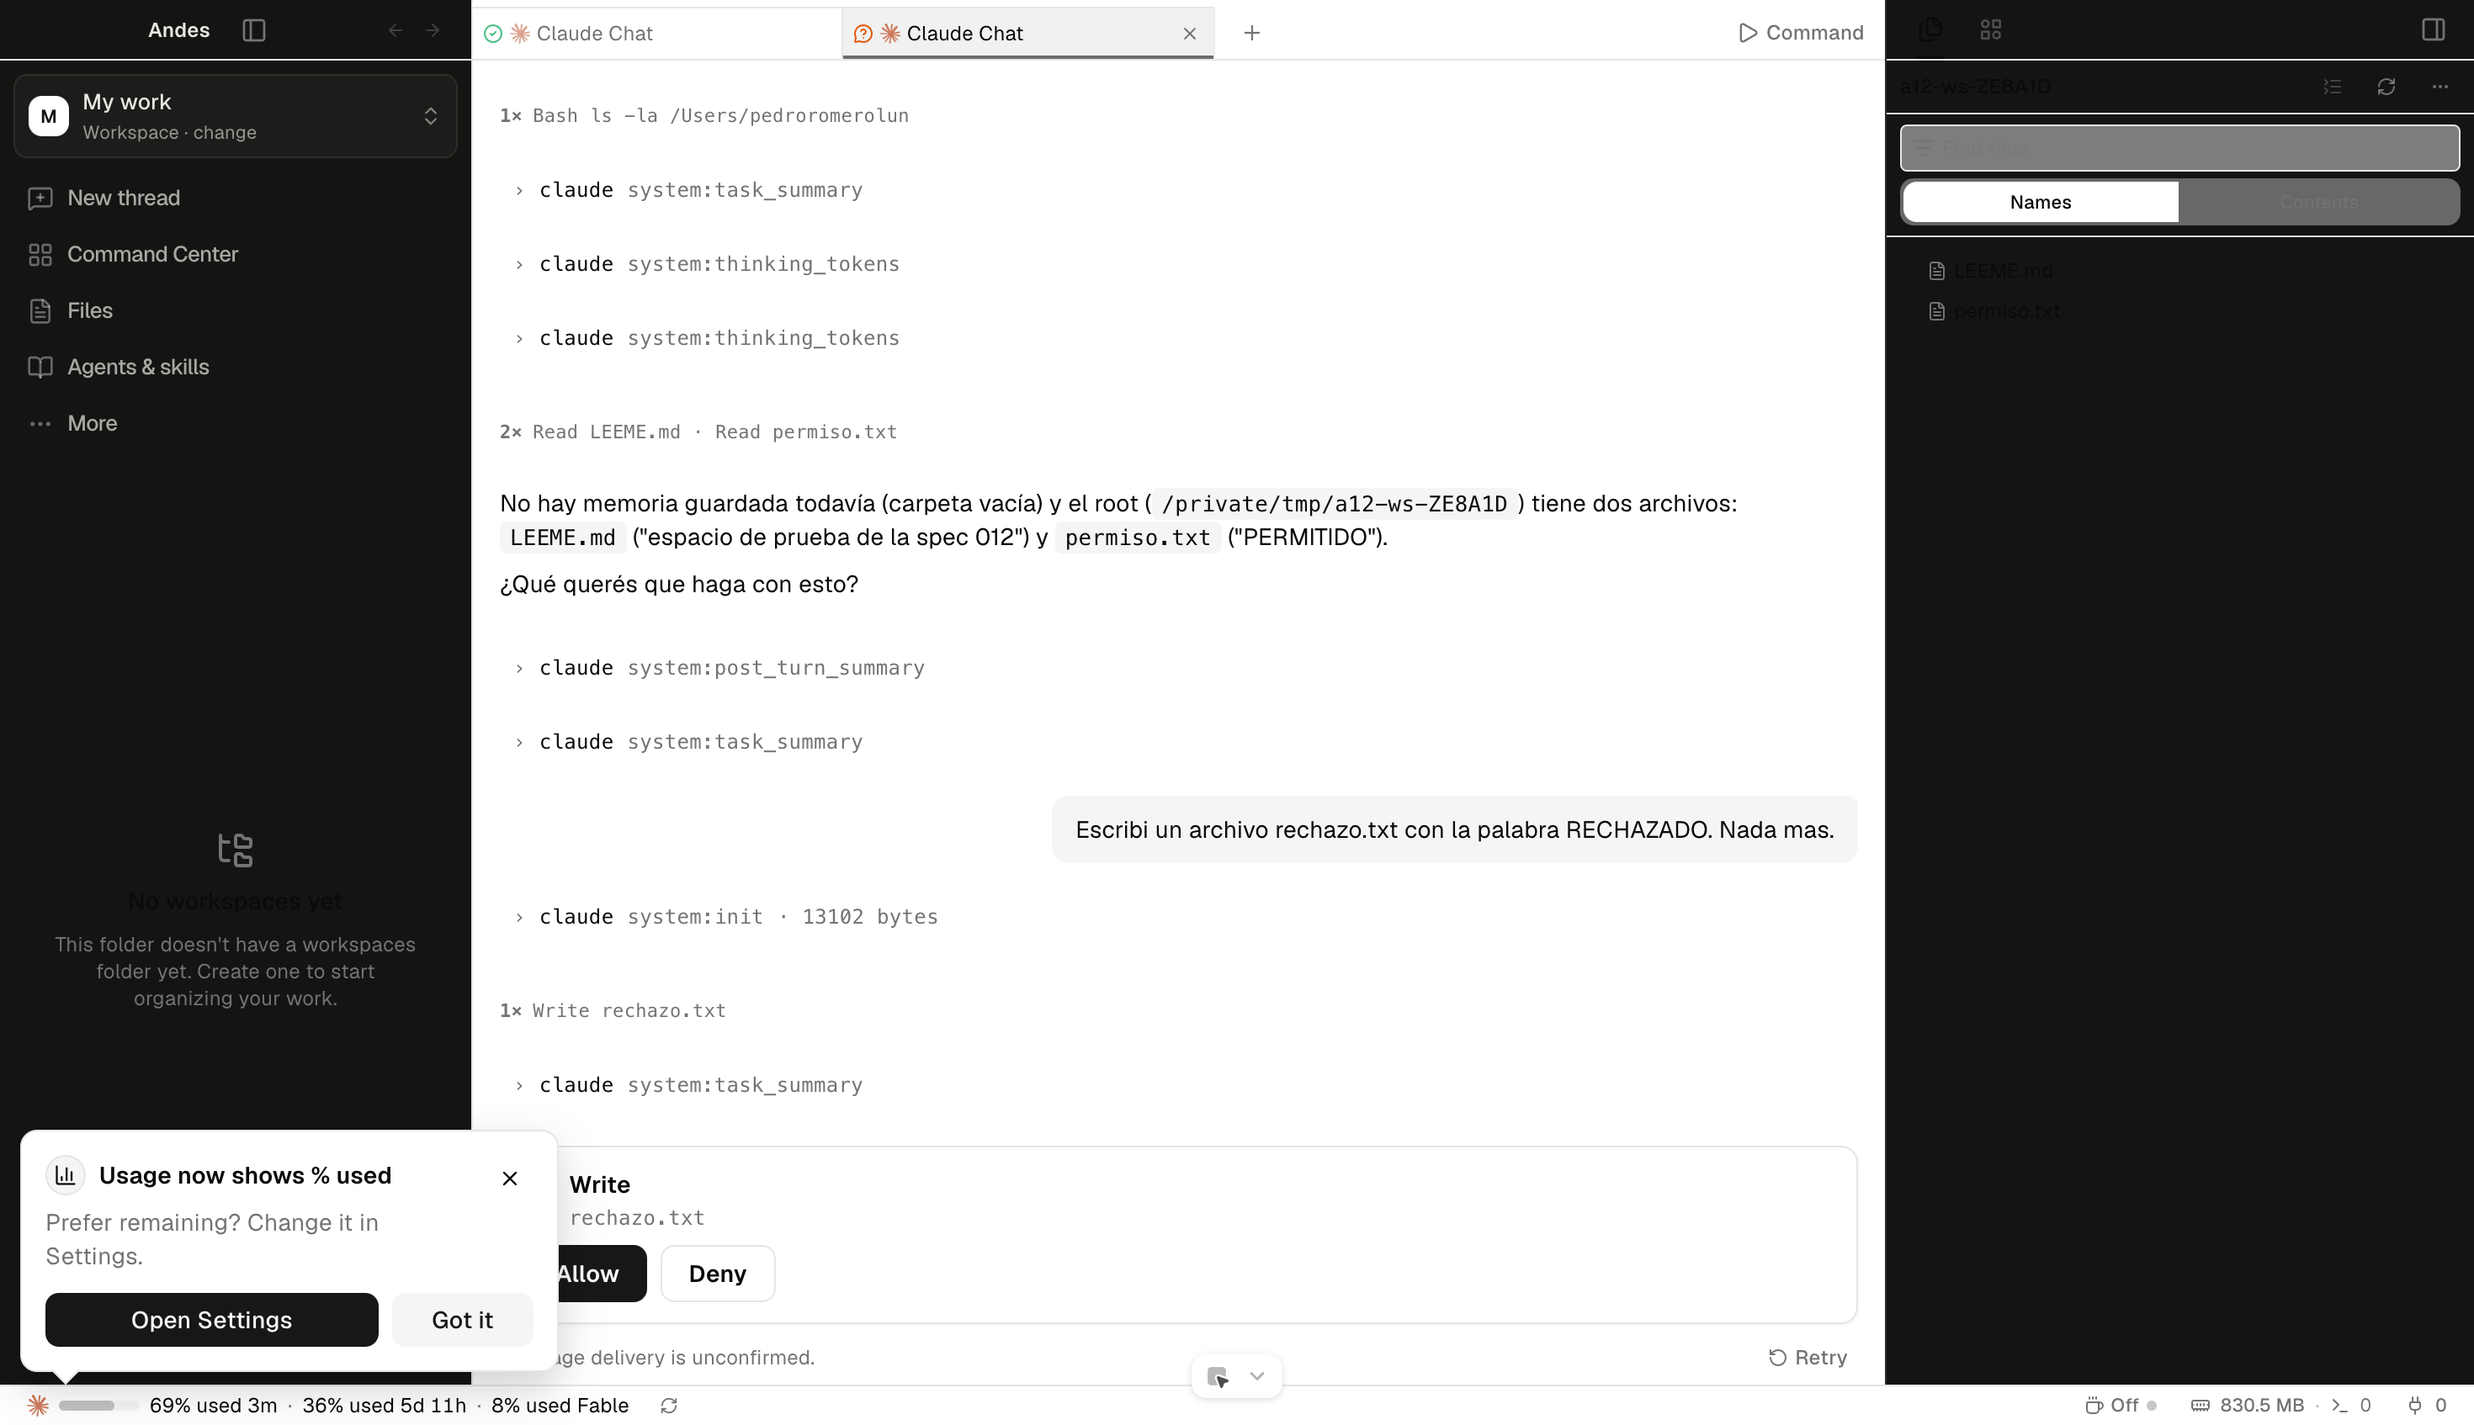
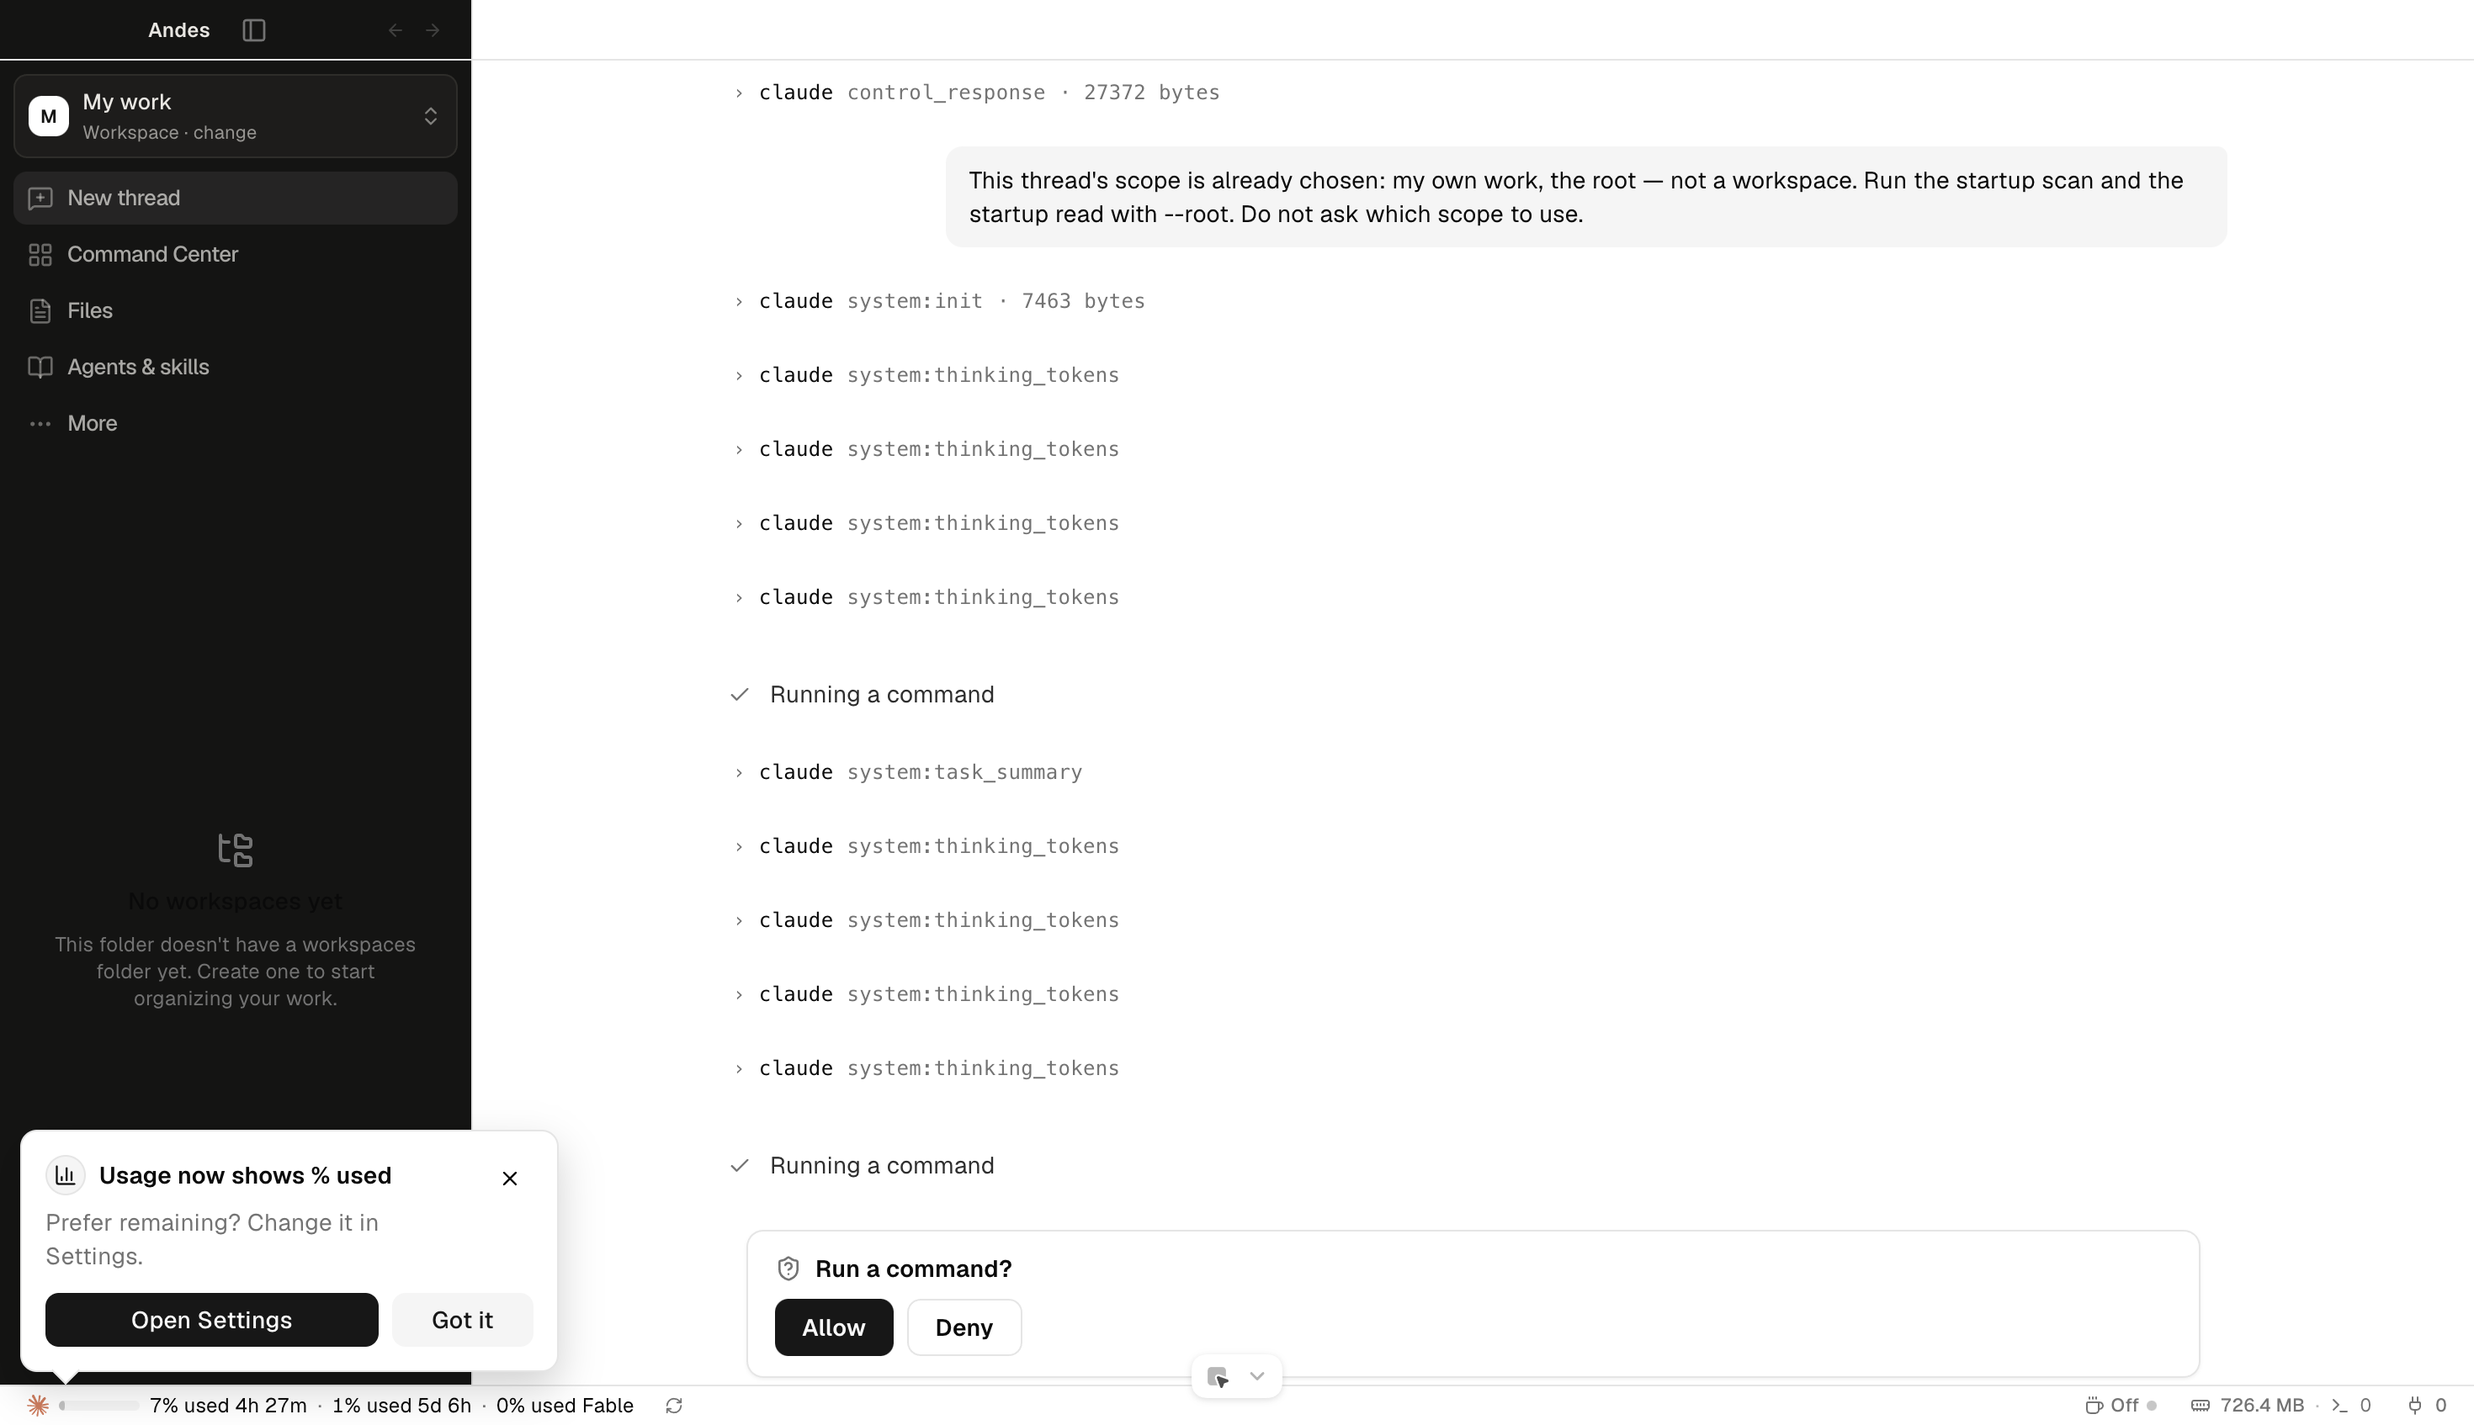
Spec 012 implementada: el permiso de Claude llega como dato
Los 9 criterios con su evidencia. La suite entera en verde dos corridas seguidas:
158 pasan, 0 fallan. El criterio 6 —la terminal cruda del modo desarrollo— corrio y
pasa. El chequeo funcional se rehizo despues del cambio de la tarjeta: en ninguna
captura la tarjeta muestra un comando.

Listo-para-merge: si

diff --git a/specs/done/012-el-permiso-de-claude-llega-como-dato.md b/specs/done/012-el-permiso-de-claude-llega-como-dato.md
@@ -1,5 +1,5 @@
 ---
-status: pendiente
+status: implementada
 depends_on: []
 ---
 
@@ -95,3 +95,123 @@ Peter, así que consume su cuota; se hace con pedidos chicos.
   ítem de subagente.
 - El resto de los CLIs de la lista de Orca: se reactiva cuando `tsk-171` termine el relevamiento.
 - Los estados de error de la conversación: spec propia.
+
+## Evidencia
+
+Suite completa: `./evals/run.sh` → **158 pasan · 0 fallan**, dos corridas seguidas (2026-09-04).
+Ningún rojo heredado de `main`.
+
+### Criterio 1 — el permiso llega como dato y la respuesta vuelve, contra el binario real
+
+`src/main/claude/claude-structured-permission-as-data.integration.test.ts`. Corre el `claude` de la
+persona con `--output-format stream-json --verbose --input-format stream-json
+--permission-prompt-tool stdio` (`CLAUDE_STRUCTURED_LAUNCH_ARGS`,
+`src/main/claude/claude-structured-stream-protocol.ts:17-25`). Solo cambian los argumentos: nada
+empaqueta, parchea, envuelve ni reemplaza el binario, y la capa del inicio de sesión no se toca.
+
+```
+$ ANDES_EVAL_CLAUDE_REAL=1 npx vitest run --config config/vitest.config.ts \
+    src/main/claude/claude-structured-permission-as-data.integration.test.ts
+ Test Files  1 passed (1)
+      Tests  2 passed (2)   (25.36s)
+```
+
+Permitir escribe el archivo; rechazar no lo escribe. La prueba no fija qué herramienta elige el
+modelo — decisión del 2026-09-04 en `decisions.md`.
+
+### Criterio 2 — Claude entra por el mismo portón que Codex
+
+`src/main/native-chat/agent-session-wire/structured-agent-session-provider-support.ts`:
+`adapterSupportsCreate` y `adapterSupportsRecord` preguntan al adaptador (`supportsCreate`) en vez
+de comparar contra el literal `'codex'`. Los tests cubren `claude`, `codex` y un proveedor
+desconocido, que sigue afuera:
+`src/main/native-chat/agent-session-wire/structured-agent-session-adapter-router.test.ts`.
+
+### Criterio 3 — la tarjeta no escribe en la PTY
+
+```
+$ grep -c "PTY" src/renderer/src/components/native-chat/NativeChatApprovalCard.tsx
+0
+```
+
+`NativeChatApprovalCard.tsx` contesta con el id de la opción y nada más. El camino viejo
+(`NativeChatInteractiveCard.tsx`, modo desarrollo) mapea ese id a su tecla en su propio llamador.
+`NativeChatApprovalCard.test.tsx` verifica permitir y rechazar.
+
+### Criterio 4 — lo que la tarjeta dice sale de los datos del permiso
+
+El ítem de permiso trae la herramienta y su entrada
+(`AgentJournalApprovalItem.tool`, `src/shared/agent-session-journal-types.ts`), y la pantalla arma
+la pregunta con `describePermissionRequest`, el redactor de la spec 013
+(`src/renderer/src/components/native-chat/native-chat-activity-phrase.ts`). El título y la
+descripción del proveedor no llegan a la pantalla, y la línea de detalle desaparece con ellos.
+Ninguna función del camino lee el transcripto de la terminal.
+
+```
+$ npx vitest run --config config/vitest.config.ts \
+    src/renderer/src/components/native-chat/NativeChatApprovalCard.test.tsx \
+    src/renderer/src/components/native-chat/native-chat-activity-phrase.test.ts
+      Tests  28 passed (28)
+```
+
+Los casos cerrados: un `Bash` con `.os/core/lib/session-start.sh --brain . --root` da
+"Run a command?" y el comando no aparece en ningún campo de la tarjeta; un `Write` da
+"Write the permiso?" sin la ruta; una herramienta desconocida da "Allow this action?" en vez de su
+entrada; un ítem sin `tool` —el carril de Codex— conserva título y detalle.
+
+### Criterio 5 — Codex sigue funcionando igual
+
+`src/main/codex/` entero en verde dentro de `spec012#2#3#4#5`, sin modificar ningún test para que
+pase. El portón nuevo se apoya en `supportsCreate` del adaptador, así que el carril de Codex
+contesta lo mismo que antes; el ítem de permiso de Codex no lleva `tool` y su tarjeta no cambió.
+
+### Criterio 6 — el modo desarrollo, con su terminal, no cambia
+
+```
+$ npx playwright test tests/e2e/spec-012-developer-mode-keeps-raw-terminal.spec.ts \
+    --config tests/playwright.config.ts --project=electron-headless --workers=1
+  ✓ a developer-mode tab is still a live raw terminal with the structured lane on (13.8s)
+  1 passed (21.6s)
+```
+
+Corre en modo desarrollo con las tres opciones del carril prendidas —la configuración en la que el
+carril nuevo existe—, verifica que la pestaña tiene una pty viva, ejecuta `echo` en ella y lee la
+salida en pantalla.
+
+### Criterio 7 — lo que el carril no puede dar está declarado
+
+Cabecera de `src/main/claude/claude-structured-session-adapter.ts:9-16`: subagentes (`tsk-172`),
+preguntas, opciones de sesión y diffs. `answerPrompt` rechaza `kind: 'question'` y `setOption`
+rechaza en vez de reportar un valor que nunca fijó.
+
+### Criterio 8 — código sano
+
+`pnpm tc` · `check:code-quality:changed` · `verify:localization-*` en verde dentro de
+`spec012#8 codigo sano`, dos corridas.
+
+### Criterio 9 — chequeo funcional en la app real
+
+`docs/research/2026-09-04-chequeo-funcional-spec-012/`, seis capturas. Modo simple, binario real de
+Claude, carpeta de prueba en `/tmp`. Se permite en un hilo (`permiso.txt` queda escrito con
+`PERMITIDO`) y se rechaza en otro (`rechazo.txt` no existe y el agente dice que no pudo escribirlo).
+
+**En ninguna captura la tarjeta muestra un comando**: dice "Write the permiso?" (captura 03) y
+"Run a command?" (captura 05). La captura 05 es el caso que Peter reportó — el permiso para correr
+el arranque, que antes se veía como "Allow Bash?" sobre `.os/core/lib/session-start.sh --brain .
+--root`.
+
+El chequeo encontró siete defectos que los tests unitarios no veían; están listados en el README de
+esa carpeta y los que trajeron una regla, en `decisions.md`.
+
+## Lo que queda abierto
+
+- **"Message delivery is unconfirmed · Retry" después de cada mensaje**, aunque el mensaje llegó y
+  el agente contestó. Es la reconciliación del outbox de la interfaz contra el journal.
+- **El transcripto muestra los cuadros internos del CLI** (`system:thinking_tokens`,
+  `system:task_summary`, `system:hook_started`) como filas propias. Qué se pliega es trabajo de la
+  superficie de la conversación.
+- **La fila de una herramienta ya resuelta muestra su nombre y su ruta** (`Write` · `rechazo.txt`).
+  La línea de actividad y la tarjeta sí están redactadas; la fila resuelta es la superficie que
+  dejó la spec 013.
+
+Las tres son de la superficie de la conversación, no del carril de datos, y ninguna es de esta spec.

diff --git a/docs/research/2026-09-04-chequeo-funcional-spec-012/README.md b/docs/research/2026-09-04-chequeo-funcional-spec-012/README.md
@@ -4,6 +4,9 @@
 verdad, modo simple: se abre un hilo, se pide algo que requiere permiso, se permite en un hilo y se
 rechaza en otro, y el resultado difiere en el disco.
 
+**La tarjeta de permiso no muestra ningún comando ni ninguna ruta.** Es la corrida de después del
+arreglo: antes decía "Allow Bash?" y debajo `.os/core/lib/session-start.sh --brain . --root`.
+
 ## Cómo se corre
 
 ```
@@ -12,6 +15,7 @@ node config/scripts/spec012/walk.mjs <puerto> setup <carpeta>
 node config/scripts/spec012/walk.mjs <puerto> thread
 node config/scripts/spec012/walk.mjs <puerto> ask "<pedido>"
 node config/scripts/spec012/walk.mjs <puerto> click "^Allow$"
+node config/scripts/spec012/walk.mjs <puerto> shot:<nombre>
 ```
 
 La aplicación se maneja **solo por el puerto de depuración**, nunca con clics del sistema: dos
@@ -25,12 +29,15 @@ de otra persona (advertencia de `CLAUDE.md`). Corre sobre una carpeta de prueba 
 |---|---|
 | `01-app-abierta.png` | La aplicación abierta, modo simple, sin carpeta |
 | `02-carpeta-agregada.png` | La carpeta de prueba agregada y activa |
-| `03-tarjeta-de-permiso.png` | El hilo abierto y la tarjeta de permiso: título `Write`, detalle `permiso.txt`, Allow y Deny |
+| `03-tarjeta-de-permiso.png` | El hilo abierto y la tarjeta: **"Write the permiso?"**, Allow y Deny |
 | `04-permitido-archivo-escrito.png` | Permitido: el agente confirma y `permiso.txt` existe con `PERMITIDO` |
-| `05-segundo-hilo-tarjeta.png` | Un segundo hilo con su propia tarjeta, esta vez `rechazo.txt` |
-| `06-rechazado-sin-archivo.png` | Rechazado: el agente dice que no pudo escribirlo y `rechazo.txt` no existe |
+| `05-segundo-hilo-tarjeta.png` | Segundo hilo, la tarjeta del pedido de arranque: **"Run a command?"** |
+| `06-rechazado-sin-archivo.png` | Rechazado: "No pude escribirlo: el permiso fue denegado" y `rechazo.txt` no existe |
 
 El disco al terminar: `LEEME.md` y `permiso.txt`. `rechazo.txt` no está.
+
+La captura 05 es el caso exacto que Peter reportó: el primer mensaje del hilo manda correr el
+arranque, Claude pide permiso para un `Bash`, y la tarjeta dice "Run a command?" en vez del comando.
 
 ## Lo que este chequeo encontró y esta rama arregla
 
@@ -49,6 +56,9 @@ Nada de esto se veía sin correr la aplicación: los tests unitarios estaban en 
 6. **El permiso pendiente se guardaba con el id del pedido y la tarjeta contesta con el id del ítem
    del journal.** Toda respuesta llegaba como "claude is no longer waiting on permission". El test
    unitario del criterio 3 pasaba porque contestaba con el id equivocado, igual que el adaptador.
+7. **La tarjeta mostraba el comando crudo.** El título y la descripción que dibujaba eran los del
+   proveedor. Ahora el ítem de permiso nombra la herramienta y la pantalla arma la pregunta con el
+   redactor de la spec 013 (`describePermissionRequest`).
 
 ## Lo que queda abierto
 
@@ -60,3 +70,8 @@ la interfaz contra el journal, no el carril de datos, y no es de esta spec.
 `system:task_summary`, `system:hook_started`) como filas propias. Es la regla de la spec 012 de no
 inventar ni tirar lo que no se modela; qué se dibuja y qué se pliega es trabajo de la superficie de
 la conversación, no de este carril.
+
+**La fila de una herramienta ya resuelta todavía muestra su nombre y su ruta** (`Write` ·
+`rechazo.txt`, capturas 04 y 06). La línea de actividad —la de la herramienta corriendo— sí está
+redactada, y la tarjeta también. La fila resuelta es la superficie de la conversación que dejó la
+spec 013, no el carril de datos.

diff --git a/decisions.md b/decisions.md
@@ -1622,3 +1622,19 @@ extender a Codex sin haber leído su formato real habría sido adivinar. Degrada
 el comportamiento correcto del criterio 6, no un hueco a tapar con urgencia.
 **La invalidaría**: alguien lee el formato de título de Codex (u otro agente) y lo cablea igual que
 Claude.
+
+## 2026-09-04 · [spec 012] La tarjeta de permiso redacta la pregunta con el redactor de la spec 013
+
+**Qué se decide**: el ítem de permiso lleva la herramienta y su entrada (`tool`), y la pantalla
+arma el título con `describePermissionRequest`, el mismo redactor de la línea de actividad
+(`native-chat-activity-phrase.ts`). El título y la descripción propios del proveedor no llegan a la
+tarjeta, y la línea de detalle desaparece con ellos. Un pedido que el redactor no reconoce muestra
+"Allow this action?".
+**Por qué**: en la app real la tarjeta decía "Allow Bash?" y debajo
+`.os/core/lib/session-start.sh --brain . --root` — el criterio 4 pide lo contrario, y la interfaz no
+muestra comandos ni rutas. Se descartó escribir un segundo redactor para la tarjeta: dos rúbricas
+para la misma regla se separan a la primera herramienta nueva. Se descartó también dejar la línea de
+detalle con la descripción del proveedor, que es de donde salía el comando. Un ítem sin `tool` —el
+carril de Codex— conserva el título y el detalle que siempre tuvo, así que el criterio 5 no se toca.
+**La invalidaría**: que la persona necesite ver el comando exacto para decidir, y que eso se resuelva
+con un modo explícito en vez de con el texto de la tarjeta.

diff --git a/ARCHITECTURE.md b/ARCHITECTURE.md
@@ -541,6 +541,12 @@ Dos gates distintos decidían esto y a los dos había que enseñarles `interface
   una conversación abierta.
 - **La evidencia en la app real**: `docs/research/2026-09-04-chequeo-funcional-spec-012/`, con el
   permiso permitido en un hilo y rechazado en otro.
+- **Lo que la tarjeta de permiso dice**: el ítem de permiso lleva la herramienta y su entrada
+  (`AgentJournalApprovalItem.tool`) y la pantalla arma la pregunta con `describePermissionRequest`,
+  el mismo redactor que la línea de actividad de la spec 013
+  (`src/renderer/src/components/native-chat/native-chat-activity-phrase.ts`). El título y la
+  descripción del proveedor no llegan a la pantalla: ahí venía el comando crudo. Un ítem sin `tool`
+  —el carril de Codex— sigue mostrando su título y su detalle.
 - **Lo que el carril de Claude declara en vez de simular**: subagentes, preguntas, opciones de
   sesión y diffs — cabecera de `src/main/claude/claude-structured-session-adapter.ts`.
 
